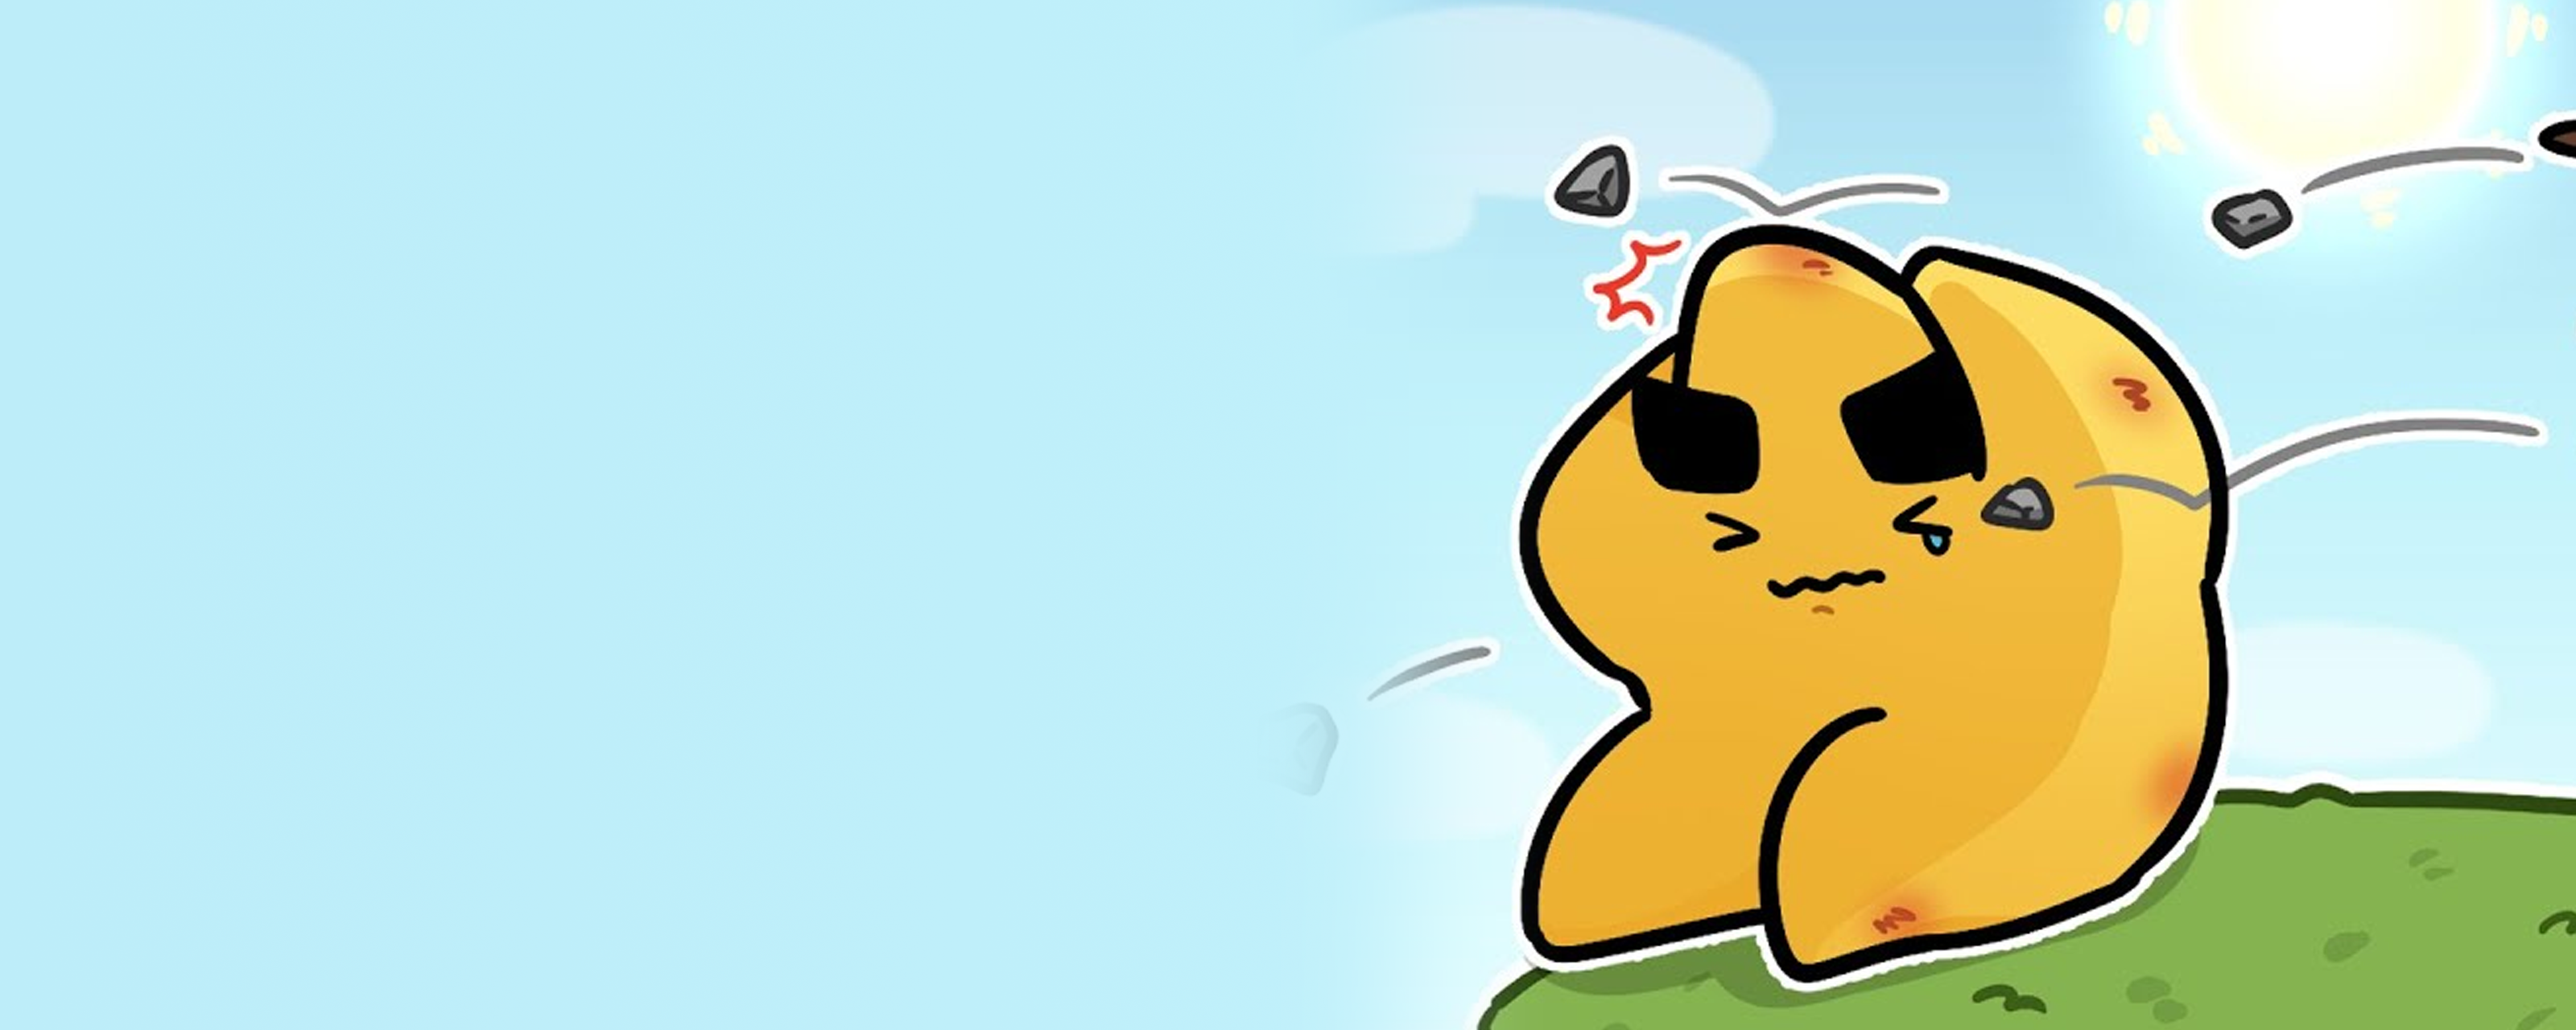
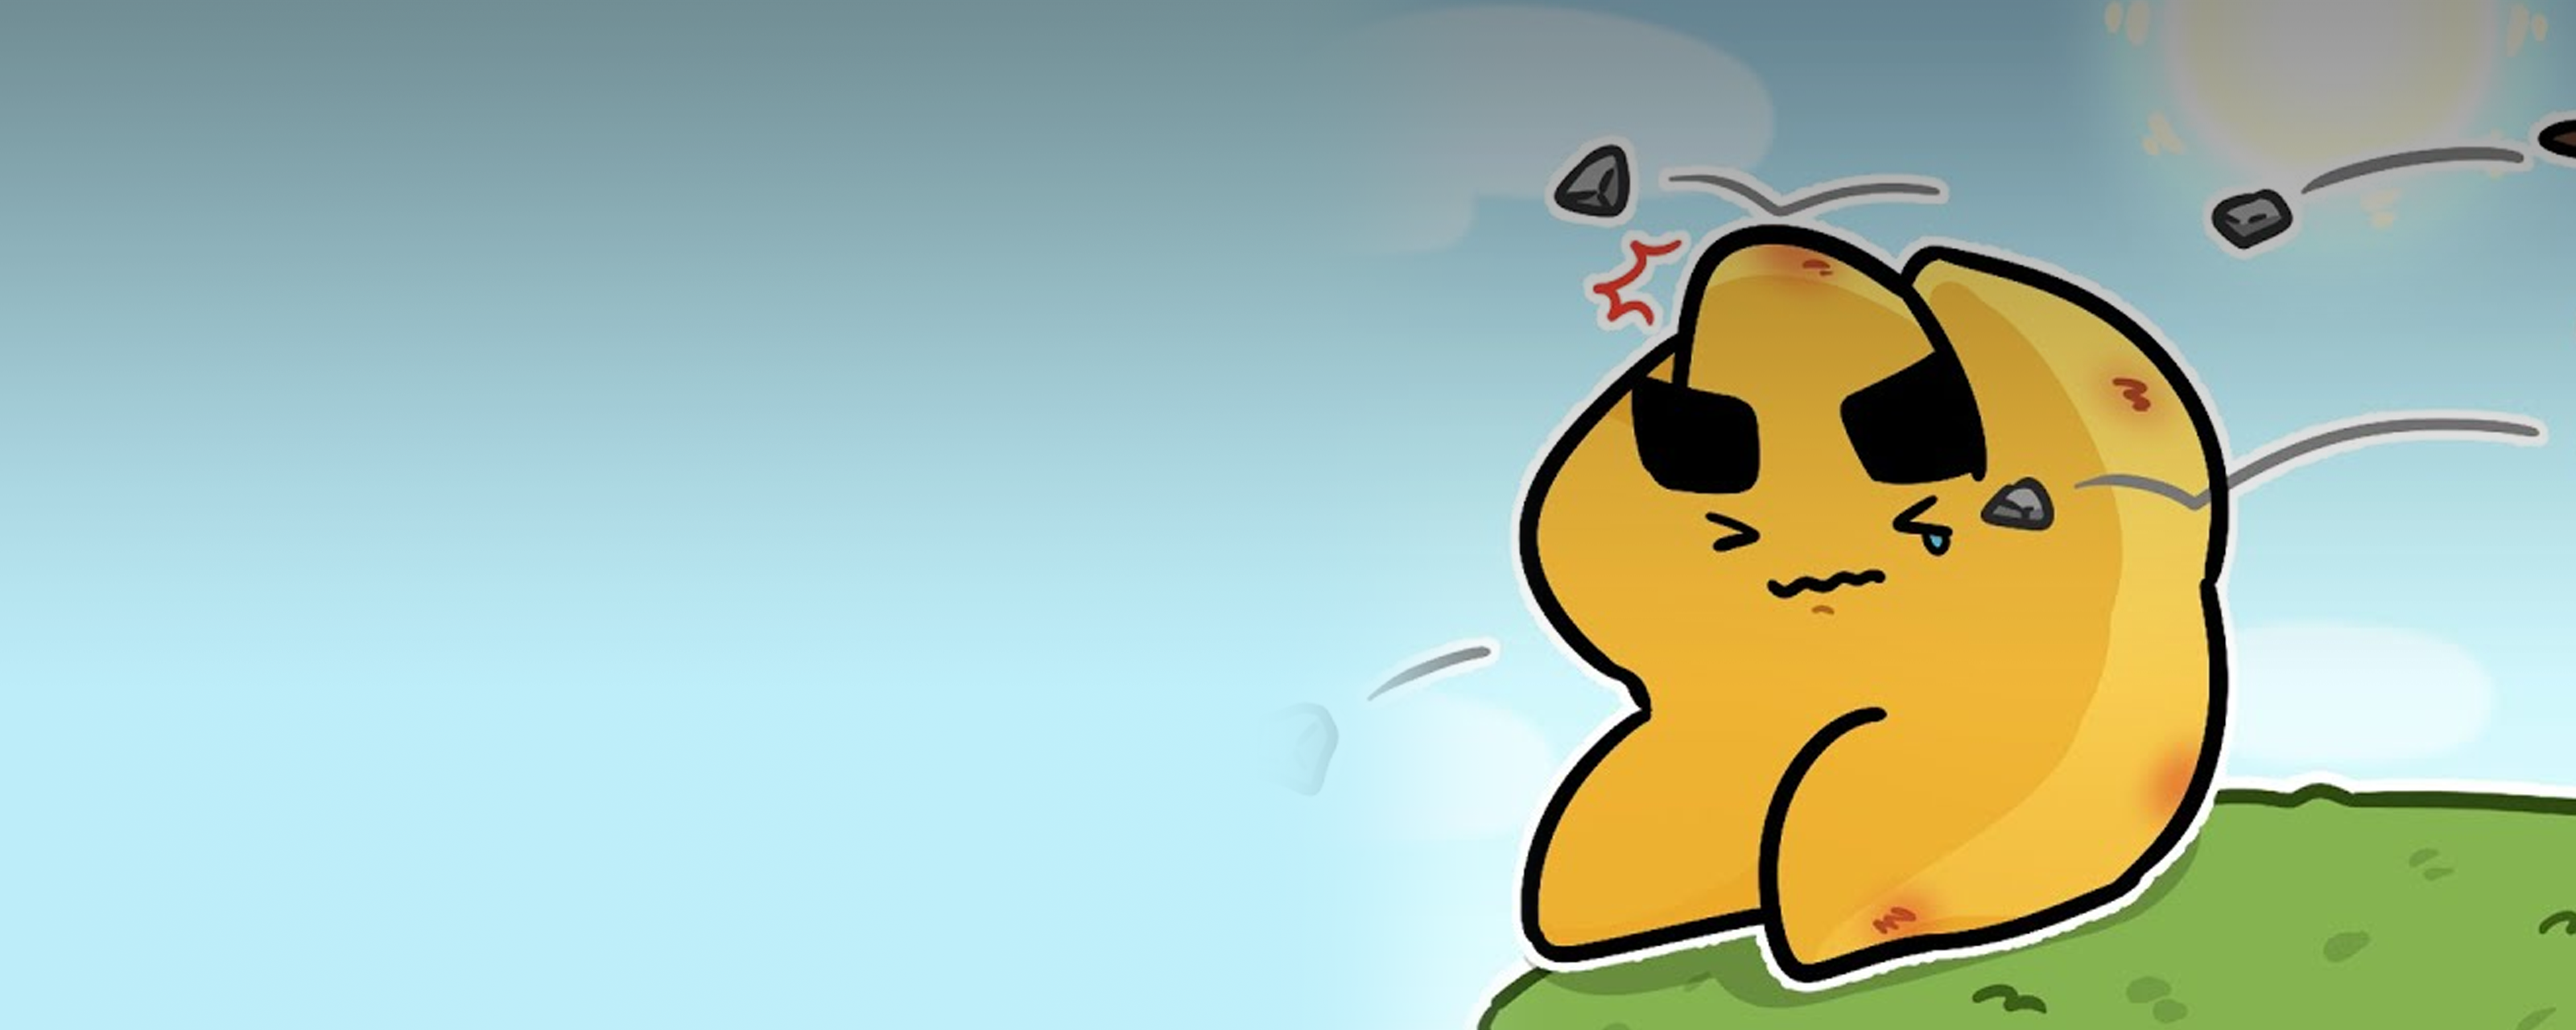
Update

diff --git a/constants/gaknimes.js b/constants/gaknimes.js
@@ -57,7 +57,7 @@ export const gaknimes = [
         ]
     ),
     new Gaknime(
-        "각별 님은 인벤토리를 확장하고 싶어", "bO6ZVEeTa5k", ["공각기동대", "패널티"], ["야생"],
+        "각별 님은 인벤토리를 확장하고 싶어 ~천재들의 인벤토리 해방전~", "bO6ZVEeTa5k", ["공각기동대", "패널티"], ["야생"],
         [
             { title: '각별 님은 인벤토리를 확장하고 싶어', code: 'bUziXPSoP30' },
             { title: '각별 님은 탐험을 하고 싶어', code: 'YQvLfQsyAfo' },
@@ -255,6 +255,33 @@ export const gaknimes = [
             { title: '청년, 크리퍼를 숨긴다', code: 'iwgwUmVFUFU' },
             { title: '악마 사과, 크리퍼 찾기를 시작하다', code: '7-MHSmOaXQI' },
             { title: '청년, 상추를 속이다', code: 'hXsiloqC6Mk' },
+        ]
+    ),
+    new Gaknime(
+        "고인물 망겜의 트롤 플래그밖에 없는 고인물이랑 팀이 되어버렸다...", "fDZwpmLrWxY", [""], ["미니게임"],
+        [
+            { title: '고인물의 교육을 받아버리고 말았다...', code: 'fDZwpmLrWxY' },
+            { title: '고인물과 저격만이 있는 게임을 플레이하고 말았다...', code: 'HWRSTnVTdmU' },
+        ]
+    ),
+    new Gaknime(
+        "그날 본 꽃의 이름을 안 우리는 지금 죽었다", "H1MMp8NEeUI", ["공각기동대"], ["미니게임"],
+        [
+            { title: '움직이고 움직이지 말아줘', code: '7Ht-1rtzllU' },
+            { title: '타인을 골로 보내는 모임', code: 'H1MMp8NEeUI' },
+        ]
+    ),
+    new Gaknime(
+        "너에게 판결이 내려왔다!", "g_8svQAq-fw", [""], ["일상"],
+        [
+            { title: '때리고싶은 기분', code: '7Ht-1rtzllU' },
+        ]
+    ),
+    new Gaknime(
+        "마크에서 돈을 추구하면 안 되는 걸까", "JPaKFwSlE8w", ["공각기동대"], ["야생"],
+        [
+            { title: '운영자', code: 'JPaKFwSlE8w' },
+            { title: '행운 전쟁', code: 'HPGA5N7D-qs' },
         ]
     ),
 ]

diff --git a/components/Header.module.css b/components/Header.module.css
@@ -11,13 +11,14 @@
     width: 100%;
 
     align-items: center;
-    justify-content: center;
 
-    transition: all 0.4s;
+    transition-duration: 0.4s;
+    transition-property: background, box-shadow;
 }
 
 .logo {
-    transition: all 0.4s;
+    transition-duration: 0.4s;
+    transition-property: color, text-shadow;
 
     font-family: ONE-Mobile-POP, -apple-system, BlinkMacSystemFont, Segoe UI, Roboto, Oxygen, Ubuntu, Cantarell, Fira Sans, Droid Sans, Helvetica Neue, sans-serif;
     margin-left: 1vw;
@@ -32,7 +33,9 @@
 }
 
 .search {
-    margin: auto;
+    position: absolute;
+    left: 37.5%;
+
     height: 5vh;
     width: 25%;
 
@@ -49,4 +52,18 @@
 
 .search:focus {
     outline: 0.1vw solid #111111;
+}
+
+.links {
+    margin: 4.5vh;
+    color: black;
+    font-weight: bold;
+    font-size: 1.75vh;
+
+    transition-duration: 0.4s;
+    transition-property: color, text-shadow;
+}
+
+.links:hover {
+    text-decoration: none;
 }

diff --git a/pages/index.js b/pages/index.js
@@ -7,7 +7,7 @@ import { useEffect, useState } from 'react';
 export default function Home() {
 
     const [displayedBars, setDisplayedBars] = useState();
-    const [banner, setBanner] = useState(banners[0]);
+    const [banner, setBanner] = useState(undefined);
 
     useEffect(() => {
         setDisplayedBars(getRandomBars(4));
@@ -18,7 +18,7 @@ export default function Home() {
     return (
     <>
         <div className={styles.main}>
-            <Banner banner={banner} />
+            {banner && <Banner banner={banner} />}
             <br />
             {displayedBars}
             <br />

diff --git a/components/Header.js b/components/Header.js
@@ -34,6 +34,11 @@ export default function Header({ isHome }) {
             textShadow: `rgba(0, 0, 0, 0.4) 0 0 ${scrollY <= 100 ? '0.2vw' : 0}`
         }} href="/" className={styles.logo}>GAKNIME</a>
 
+        <a className={styles.links + (scrollY <= 100 ? ' unscrolled' : ' scrolled')} style={{
+            color: scrollY <= 100 ? 'white' : 'black',
+            textShadow: `rgba(0, 0, 0, 0.2) 0 0 ${scrollY <= 100 ? '0.2vw' : 0}`,
+        }} href="https://github.com/dytroInc/gaknime">소스코드</a>
+
         <input
             className={styles.search}
             value={searchKeyword}

diff --git a/constants/banners.js b/constants/banners.js
@@ -5,8 +5,13 @@ export const banners = [
         item: "주문은 돌입니까?"
     },
     {
-        catchphrase: "손에서 땀이 흘리는 포스트 아포칼립스 작품",
+        catchphrase: "언제 상황이 바뀔지도 모르는 긴장감",
         image: 'zombie.png',
         item: "좀비생활!"
-    }
+    },
+    {
+        catchphrase: "새해의 해돋이를 아름답게 표현한 연출!",
+        image: 'sunrise.png',
+        item: "새해에 뭐 하세요? 바쁘세요? 해돋이 볼 수 있나요?"
+    },
 ]

diff --git a/components/GaknimeItem.js b/components/GaknimeItem.js
@@ -7,7 +7,7 @@ export default function GaknimeItem({
 }) {
 
     return <a href={"/item/" + gaknime.id} className={styles.item} key={gaknime.title} style={{
-        transition: transitionDisplayed ? 'transform 0.8s' : 'none',
+        transition: transitionDisplayed ? 'transform 1.2s' : 'none',
         transform: `translate(${
             ((currentOrder * 18.8) + (hasNegative ? hasMoved ? 15.58 : 112.8 : hasNegative)) * -1
         }vw, 0)`,

diff --git a/components/Bar.js b/components/Bar.js
@@ -45,7 +45,7 @@ export default function Bar({ title, items }) {
             setCurrentOrder([result, false])
 
             setIsMoving(false);
-        }, 800);
+        }, 1200);
 
         return () => clearTimeout(timeout)
     }, [currentOrder])

diff --git a/styles/globals.css b/styles/globals.css
@@ -55,3 +55,12 @@ a:hover {
   transform: translateY(0%);
   display: block;
 }
+
+.unscrolled:hover {
+  color: #bbbbbb !important;
+  text-shadow: none !important;
+}
+
+.scrolled:hover {
+  color: #cccc00 !important;
+}
